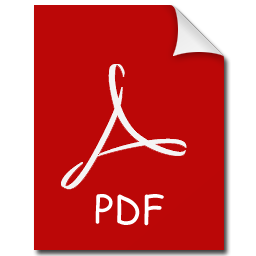
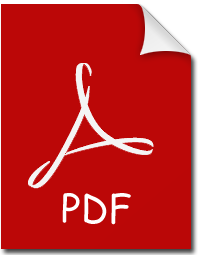
show resume on application page

diff --git a/src/desktop/containers/ApplicationDetail.js b/src/desktop/containers/ApplicationDetail.js
@@ -72,7 +72,16 @@ class ApplicationDetail extends Component {
 					}
 
 					<br /><br />
-					<h3 style={styles.title}>Resume</h3>
+					{ (application.attachments.length > 0) ? <h3 style={styles.title}>Resume</h3> : null }
+					{ application.attachments.map((attachment, i) => {
+							return (
+								<a key={i} target="_blank" href={attachment}>
+									<img style={{width:72, marginTop:12}} src="/images/pdf.png" />
+								</a>
+							)
+
+						})
+					}
 				</div>
 			)
 		}
